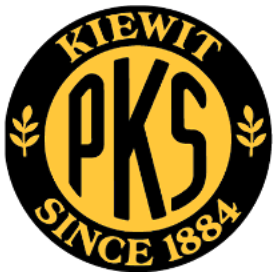
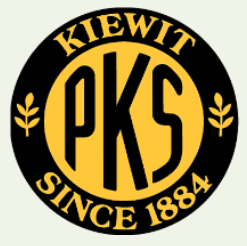
updates

Changed region(s): [[0.0, 0.0, 0.9919, 0.9959], [0.5385, 0.3415, 0.5668, 0.3984]]

diff --git a/index.html b/index.html
@@ -60,7 +60,7 @@
 									<h3>Education</h3>
 									<div class="education"> 
 										<article>
-											<img class="image" src="images/uiucLogo.png" alt="" />
+											<img class="image" src="images/uiuc.png" alt="" />
 											<div class="inner">
 												<h4>University of Illinois at Urbana-Champaign</h4>
 												<h5> &emsp; Bachelor of Science in Civil and Environmental Engineering (May 2022)<br />
@@ -91,7 +91,7 @@
 									<h3>Experience</h3>
 									<div class="experience"> 
 										<article>
-											<img class="image" src="images/kiewitLogo3.png" alt="" />
+											<img class="image" src="images/kiewit.png" alt="" />
 											<div class="inner">
 												<h4>Kiewit</h4>
 												<h5> &emsp; Structural Engineering Intern (June 2021 - August 2021) </h5>
